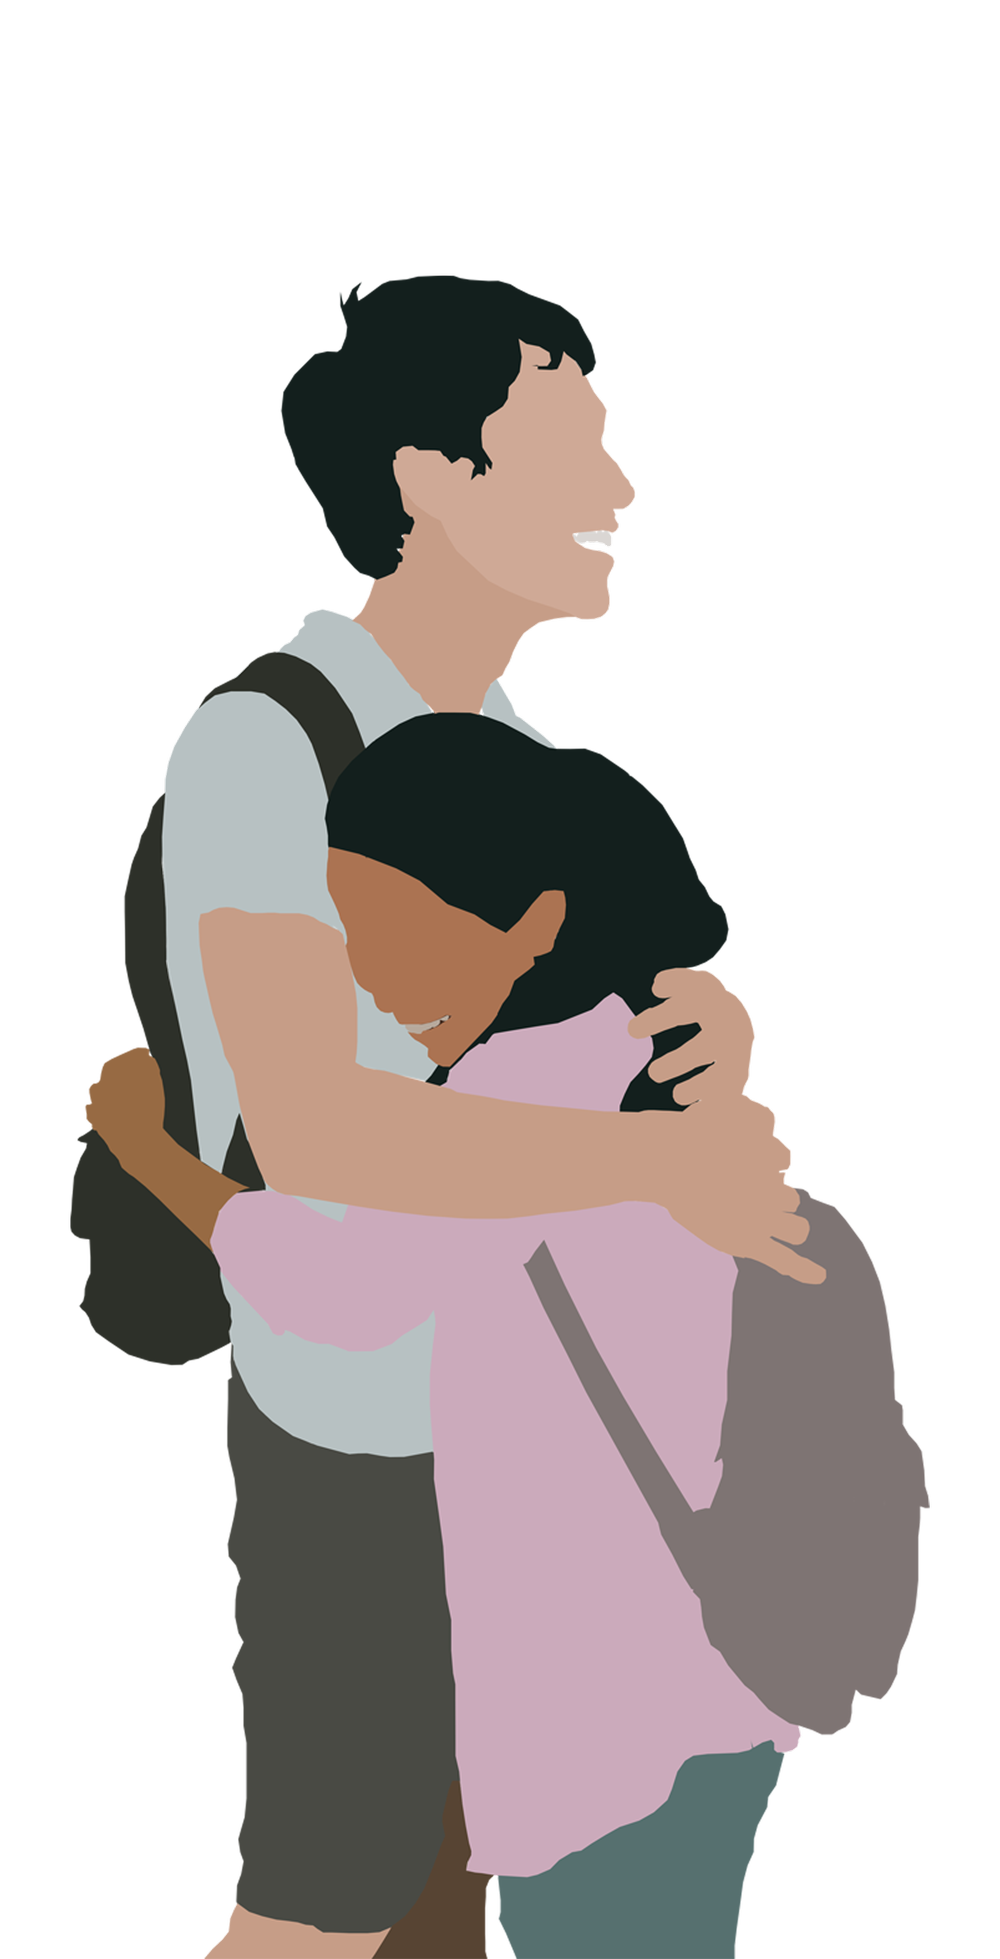
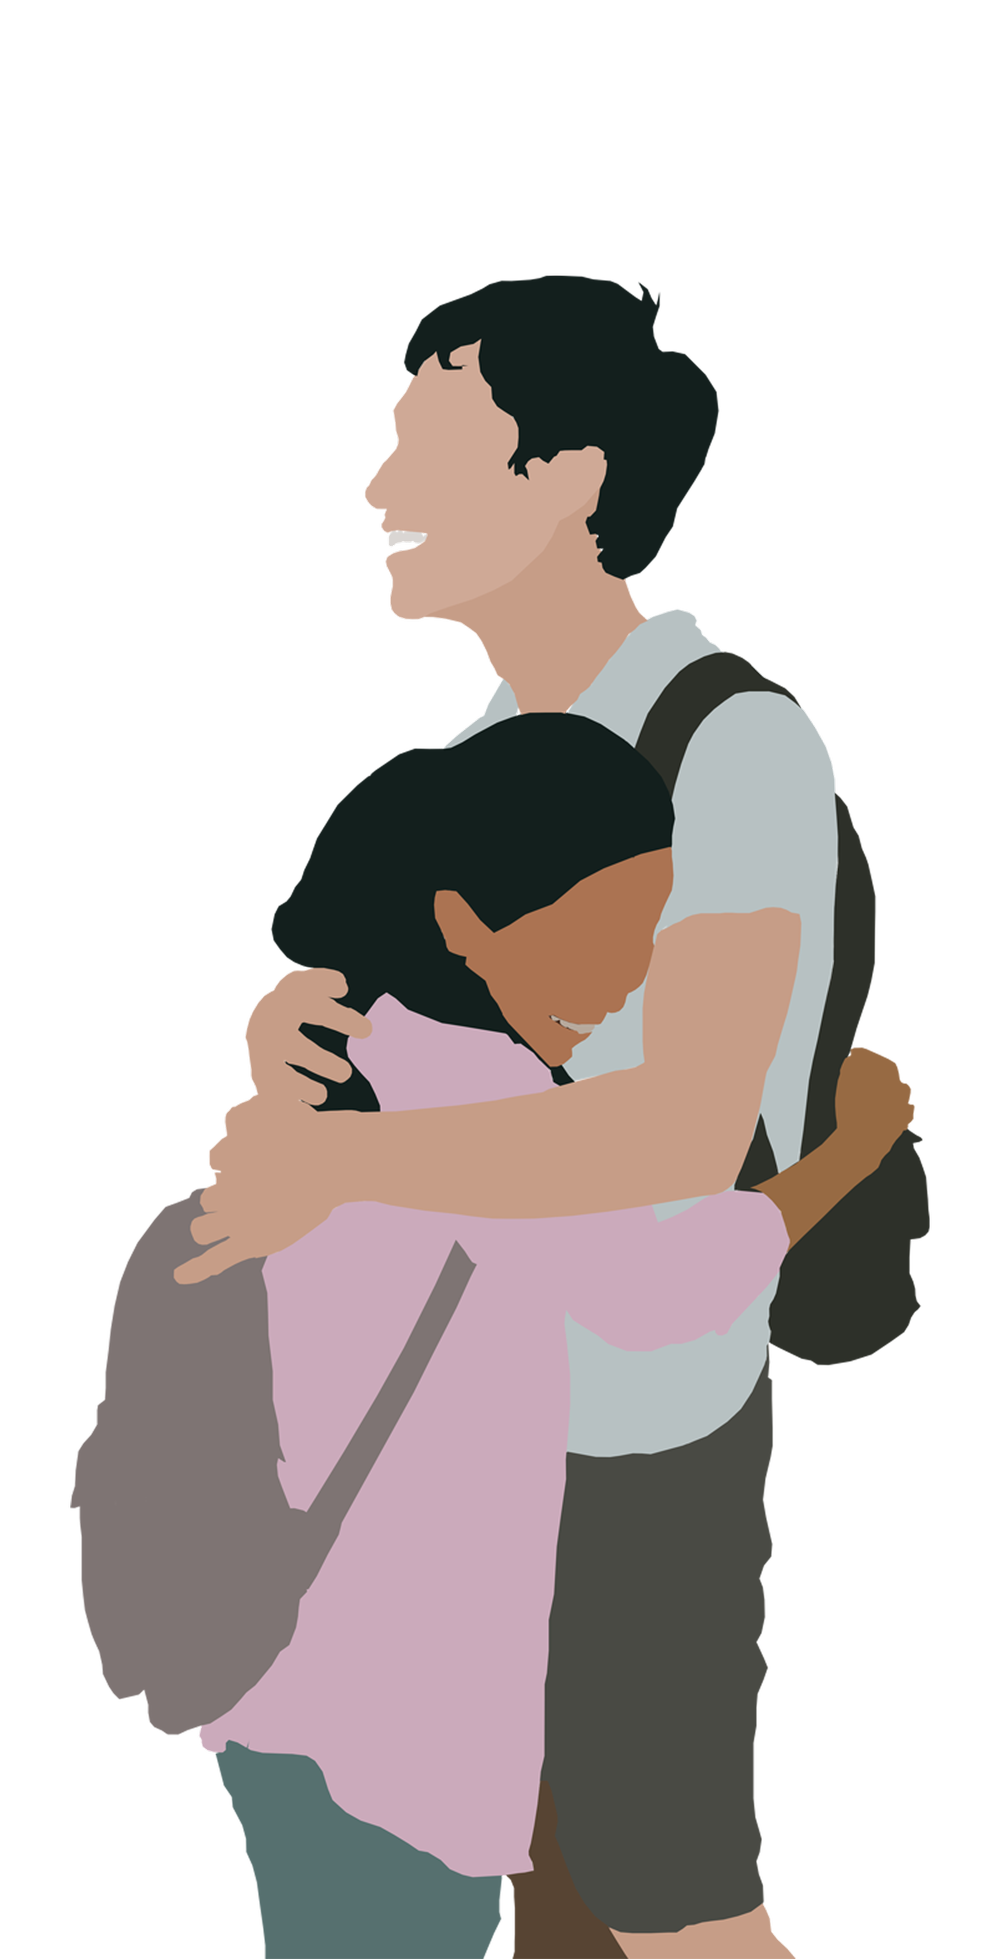
image

diff --git a/test.html b/test.html
@@ -491,12 +491,16 @@
         align-items: center;
         background-color: #1D2D44;
     }
+    #gallery-intro div{
+        z-index: 100;
+    }
     #gallery-intro div h1{
         font-size: 60px;
     }
     #gallery-intro div h1,#gallery-intro div h4{
         text-align:left;
         margin-left: 20%;
+        z-index: 100;
     }
 
     #donateContent{
@@ -764,6 +768,14 @@
         -webkit-transition: opacity 0s ease-in;
         -ms-transition: opacity 0s ease-in;
         transition: opacity 0s ease-in;
+    }
+
+    #gallery-intro img{
+        position: absolute;
+        bottom: 0;
+        right: 15%;
+        height: 60%;
+        z-index: 1;
     }
 
     #villagers{
@@ -1336,6 +1348,7 @@
                 </svg>
             </h4>
         </div>
+        <img src='shun clear.png'>
         <div id='galleryButtonContainer'>
             <a onclick="$('.phaseTwo').css({'display':'flex'});document.getElementById('gallery-container').scrollIntoView();">
                 <svg id='galleryButton' width="5em" height="5em" viewBox="0 0 16 16" class="bi bi-chevron-compact-down" fill="#F0EBD8" xmlns="http://www.w3.org/2000/svg">
